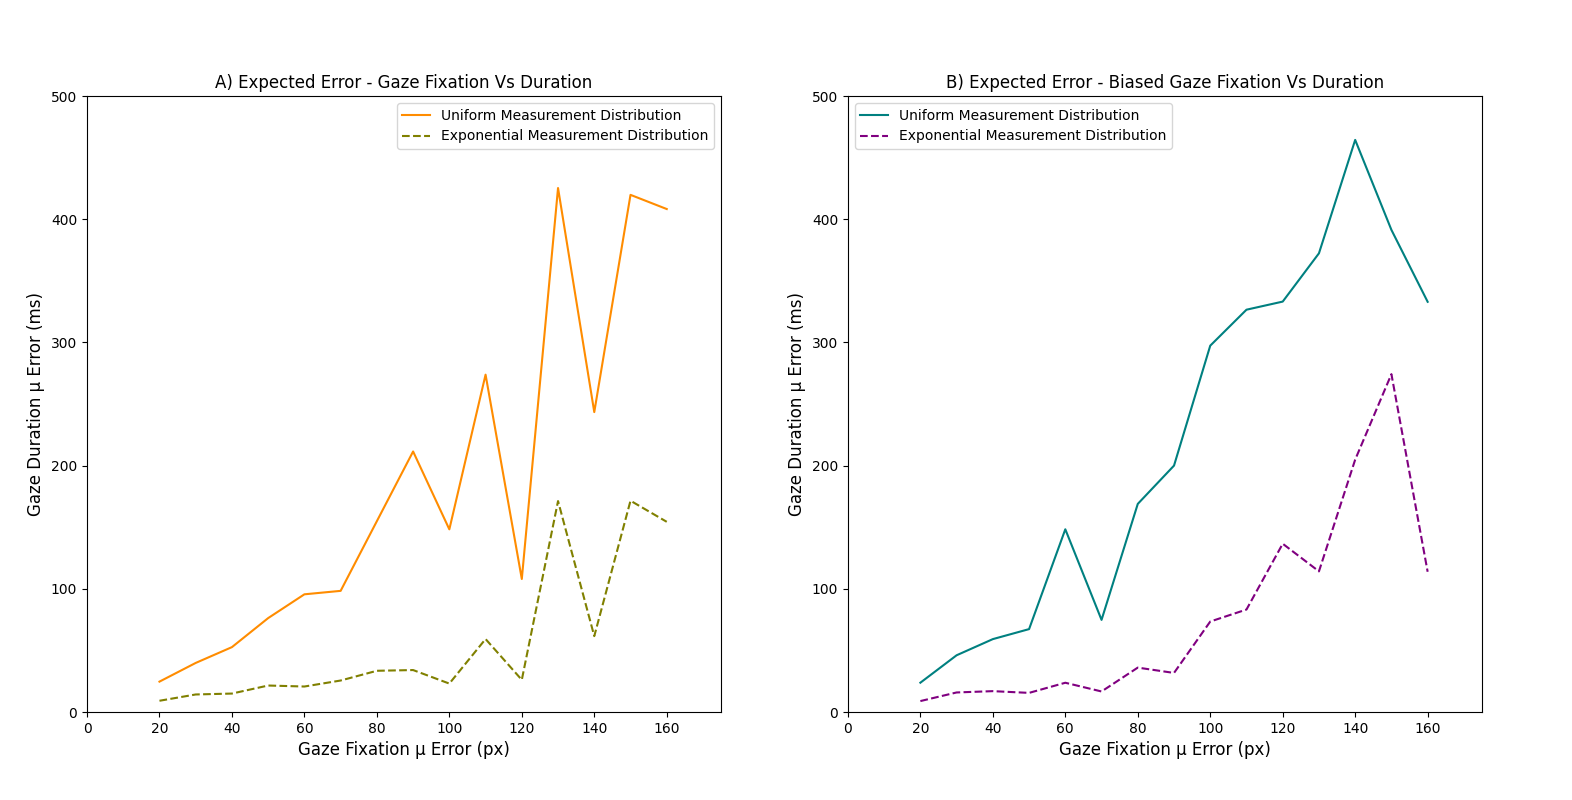
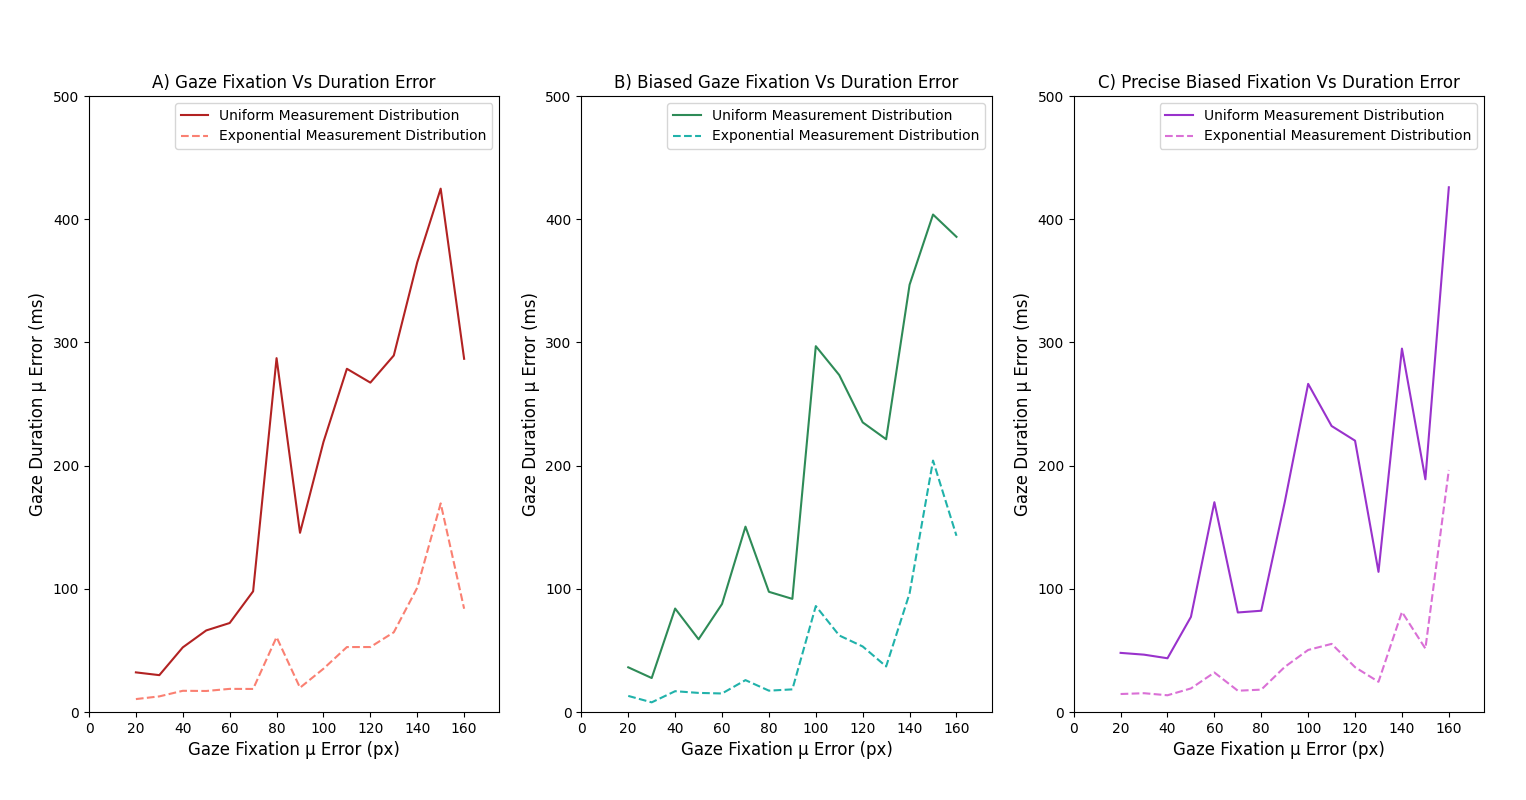
Uncommited paper changes

diff --git a/paper/paper.tex b/paper/paper.tex
@@ -251,11 +251,11 @@ The source repository for the \textit{gazerr} application also contains a series
 scripts for generating data sets and running the experiments outlined in the next 
 section. Full details available in the package \textit{README} file.
 
-\subsection{Experiments}
+\section{Experiments}
 
 We apply the \textit{gazerr} application to investigate the relationship between 
-measured gaze duration and expected true duration under a variety of changing scenarios. 
-These scenarios are variations in the underlying error indicated by the eye tracking 
+measured gaze duration and expected true duration under a variety of scenarios. 
+Each scenario involves a variation in the underlying error indicated by the eye tracking 
 calibration file and length of the session in which the user could be looking at 
 the area of interest.
 
@@ -273,7 +273,7 @@ biased toward the upper left corner of the screen, but it has higher precision,
 meaning that the measurements will cluster closely together with each other around
 the mean error position.
 
-We include these biased calibration dataset as they are consistent with both our 
+We include these biased calibration datasets as they are consistent with both our 
 observations of real eye tracking data and what is found in the literature\cite{}.
 We use this synthetic data creation in order to explore the extent to which different
 patterns in error, bias and precision affects gaze duration measurements.
@@ -295,17 +295,20 @@ results are shown in Figure \ref{fig:measured_vs_expected}.
 
 \begin{figure}[h!]
 \includegraphics[scale=0.5]{../results/Measured_vs_expected.png}
-\caption{Measured Versus Expected Gaze Duration. \\\hspace{\textwidth} 
-MREC ad appearing on screen for 1s with 50px Mean Error in Fixation}
+\caption{Measured Gaze Duration Versus Expected Gaze Duration. \\\hspace{\textwidth} 
+MREC ad appearing on screen for 1s with 70px Mean Error in Fixation}
 \label{fig:measured_vs_expected}
 \end{figure}
 
-The result shown in Figure \ref{fig:measured_vs_expected} is indicative of what we see under
-multiple variations of the simulation configuration. At lower meaurement values there is a 
-tendency for the measurement to be an accurate estimation of true gaze duraiton, while 
-at higher values it tends toward an under-estimation of the true gaze duration. 
-Surprisingly the results using the biased calibration data seem to mitigate this effect 
-somewhat, but the overall pattern remains consistent.
+The result shown in Figure \ref{fig:measured_vs_expected} is indicative of what we 
+see under multiple variations of the simulation configuration. 
+At lower meaurement values there is a tendency for the measurement to be an 
+accurate estimation of true gaze duration, while 
+at higher values it tends toward an under-estimation of the true gaze duration.
+This problem is worse for the model with the biased error, but it is mitigated
+when the biased error comes from a model with higher precision. This is potentially
+due to the fact that the high prescion scenario has lower tendency for gaze to be 
+pushed off screen.  
 
 We next examined the way that exected error in the gaze duration estimate tracks with 
 expected error in the gaze fixation points. This involved calculating the mean absolute
@@ -331,10 +334,18 @@ lower expected error overall. This pattern is true for the centrally distributed
 error (A) as well as the biased calibration error (B) and precise biased calibration
 error (C) scenarios.
 
+In addition, the additional error in gaze duration we see when the error is biased
+in a particular direction (shown in B) is partly mitigated by a fixation model that
+is more precise (shown in C). This suggests that a precise fixation sampling process
+is able to partly overcome the false positive and false negatives of an error prone gaze
+fixation model.
+
 In our final experiment we look at the effect of both the size of the measured 
 gaze duration and the mean error of fixation on the expected error in gaze duration.
-We display this as a three dimensional expected error surface over these two key dimensions
-in Figure \ref{fig:error_surface}
+We conduct this experiment using only the unbiased synthetic data in order to understand
+how error centred on true fixation points relates to error in gaze duration across the
+range of measurement. We display these results as a three dimensional expected error 
+surface over these two key dimensions in Figure \ref{fig:error_surface}
 
 \begin{figure}[h!]
 \centering
@@ -365,19 +376,25 @@ lower mean error in the fixation models, but remains consistent for all levels o
 We have demonstrated that the statistial information contained in eye tracking calibration
 data can be utilised for estimating errors in gaze duration estimation. The process involves
 simulating the distribution of measured duration for each possible true duration, 
-and then inverting it with Bayes rule into a distribution over true duration for a given measurement.
+and then inverting it with Bayes rule into a distribution over true duration for a 
+given measurement.
 
-We have released this approach as the open source application \textit{gazerr} and used it to explore
-the relationship between fixation error and duration error. Our results show that the nature
-of the error in gaze duration depends on the size of the measurement. Smaller measurements
-tend to have lower expected error while larger measurements tend toward under prediction. We plotted
-the relationship between expected error and saw that observed tendency toward smaller duration
-measurements (estimated with an psuedo-exponential distribution) delivers a slower growing
+We have released this approach as the open source application \textit{gazerr} and 
+used it to explore the relationship between fixation error and duration error, under
+range of realistic error profiles when looking at measuring attention on a standard
+size ad within a mobile screen. Our results show that the nature
+of the error in gaze duration tends to depend on the size of the measurement. 
+Smaller measurements tend to have lower expected error while larger measurements 
+tend toward under prediction. 
+We plotted the relationship between expected error and saw that the observed 
+tendency toward smaller duration measurements 
+(estimated with an psuedo-exponential distribution) delivers a slower growing
 expected duration error with the mean error in fixation points.
 
-Finally, our simulations revealed that for large error in fixation points, certain measurements
-become so unlikely that our Monte Carlo simualtions placed none of the probability density
-in those regions. This strongly suggests that an additional downside to large fixation point error
+Finally, our simulations revealed that for large error in fixation points, 
+certain measurements become so unlikely that our Monte Carlo simulations placed 
+none of the probability density in those regions. 
+This strongly suggests that an additional downside to large fixation point error
 is a reduced range of measurement for area of interest studies.
 
 \bibliographystyle{IEEEtran}

diff --git a/scripts/plot_expected_errors.py b/scripts/plot_expected_errors.py
@@ -53,7 +53,7 @@ for err in errors:
     gaze_err3_uni.append(df3['err_uni'].sum())
     gaze_err3_exp.append(df3['err_exp'].sum()) 
 
-fig = plt.figure(figsize=(22,8))
+fig = plt.figure(figsize=(18,8))
 #fig = plt.figure(figsize=plt.figaspect(0.5))
 
 # =============
@@ -61,7 +61,7 @@ fig = plt.figure(figsize=(22,8))
 # =============
 # set up the axes for the first plot
 ax = fig.add_subplot(1, 3, 1)
-ax.set_title('A) Expected Error - Gaze Fixation Vs Duration')
+ax.set_title('A) Gaze Fixation Vs Duration Error')
 ax.plot(errors, gaze_err_uni, c='firebrick', label="Uniform Measurement Distribution")
 ax.plot(errors, gaze_err_exp, c='salmon', linestyle='dashed', label="Exponential Measurement Distribution")
 ax.set_xlabel('Gaze Fixation μ Error (px)', fontsize=12)
@@ -71,7 +71,7 @@ ax.set_ylim([0, 500])
 ax.legend( prop={'size': 10} )
 
 ax = fig.add_subplot(1, 3, 2)
-ax.set_title('B) Expected Error - Biased Gaze Fixation Vs Duration')
+ax.set_title('B) Biased Gaze Fixation Vs Duration Error')
 ax.plot(errors, gaze_err2_uni, c='seagreen', label="Uniform Measurement Distribution")
 ax.plot(errors, gaze_err2_exp, c='lightseagreen', linestyle='dashed', label="Exponential Measurement Distribution")
 ax.set_xlabel('Gaze Fixation μ Error (px)', fontsize=12)
@@ -81,7 +81,7 @@ ax.set_ylim([0, 500])
 ax.legend( prop={'size': 10} )
 
 ax = fig.add_subplot(1, 3, 3)
-ax.set_title('C) Expected Error - Biased Precise Gaze Fixation Vs Duration')
+ax.set_title('C) Precise Biased Fixation Vs Duration Error')
 ax.plot(errors, gaze_err3_uni, c='darkorchid', label="Uniform Measurement Distribution")
 ax.plot(errors, gaze_err3_exp, c='orchid', linestyle='dashed', label="Exponential Measurement Distribution")
 ax.set_xlabel('Gaze Fixation μ Error (px)', fontsize=12)
